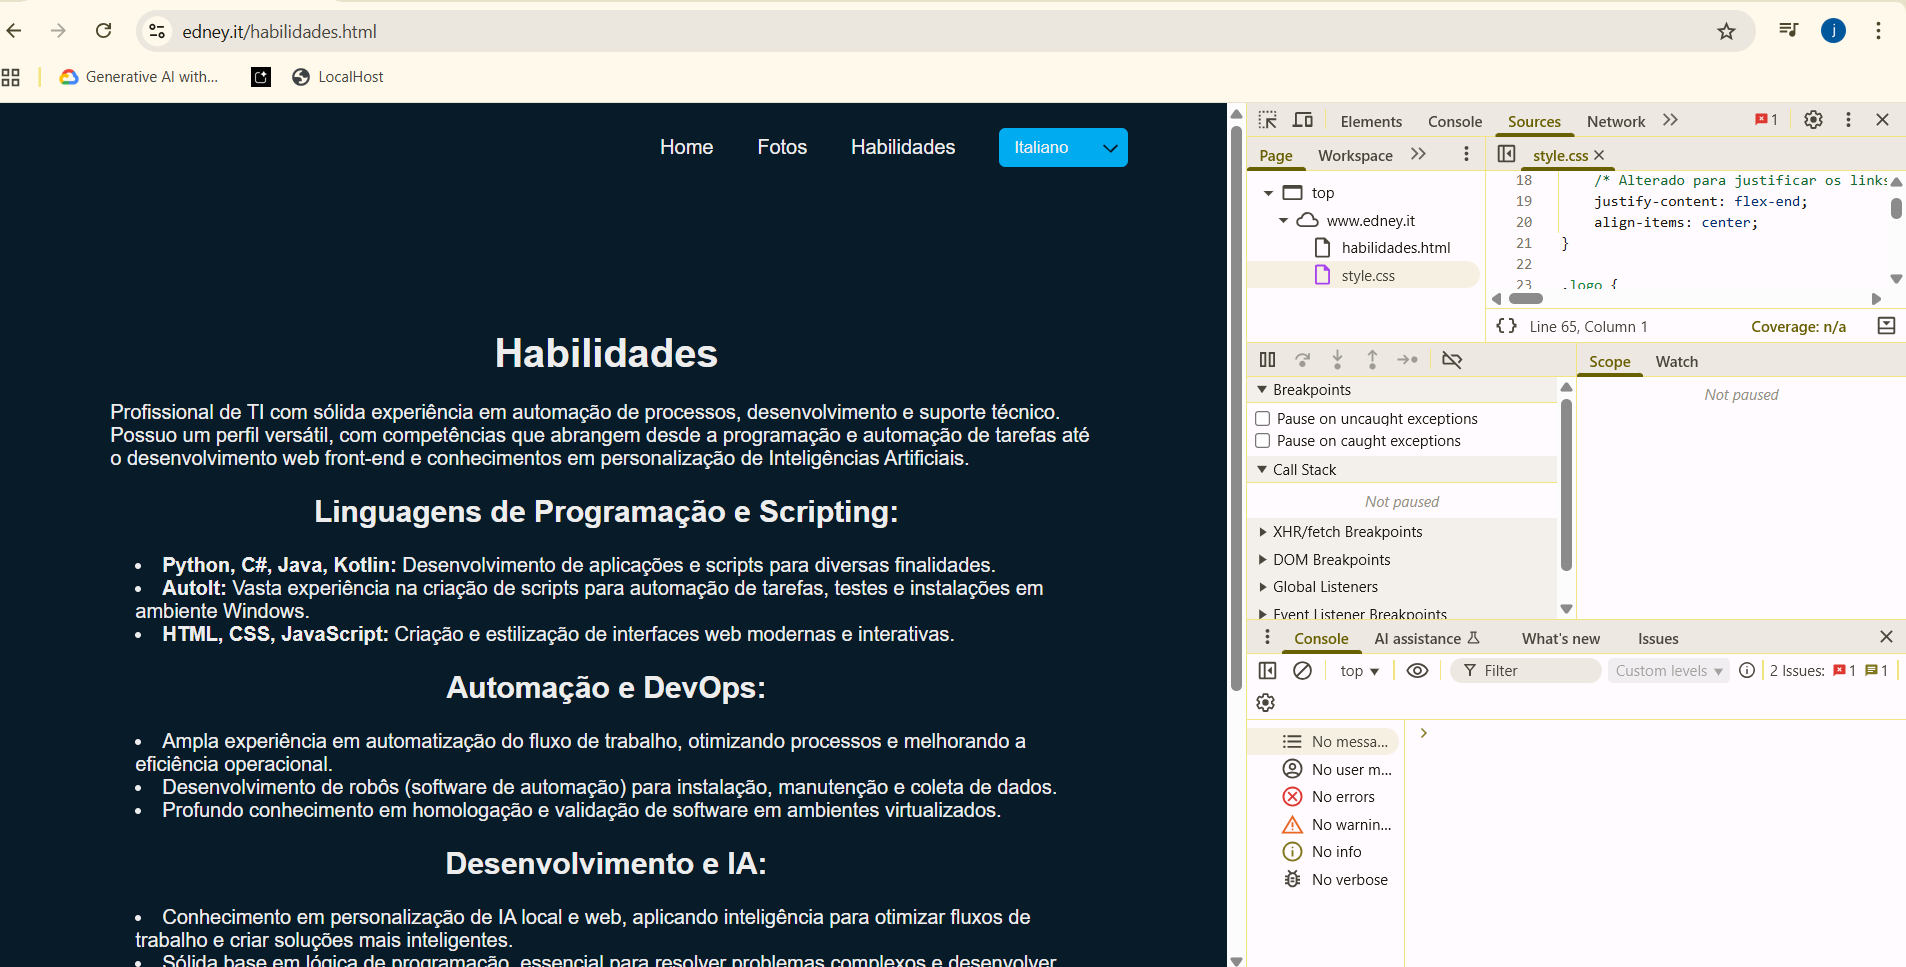
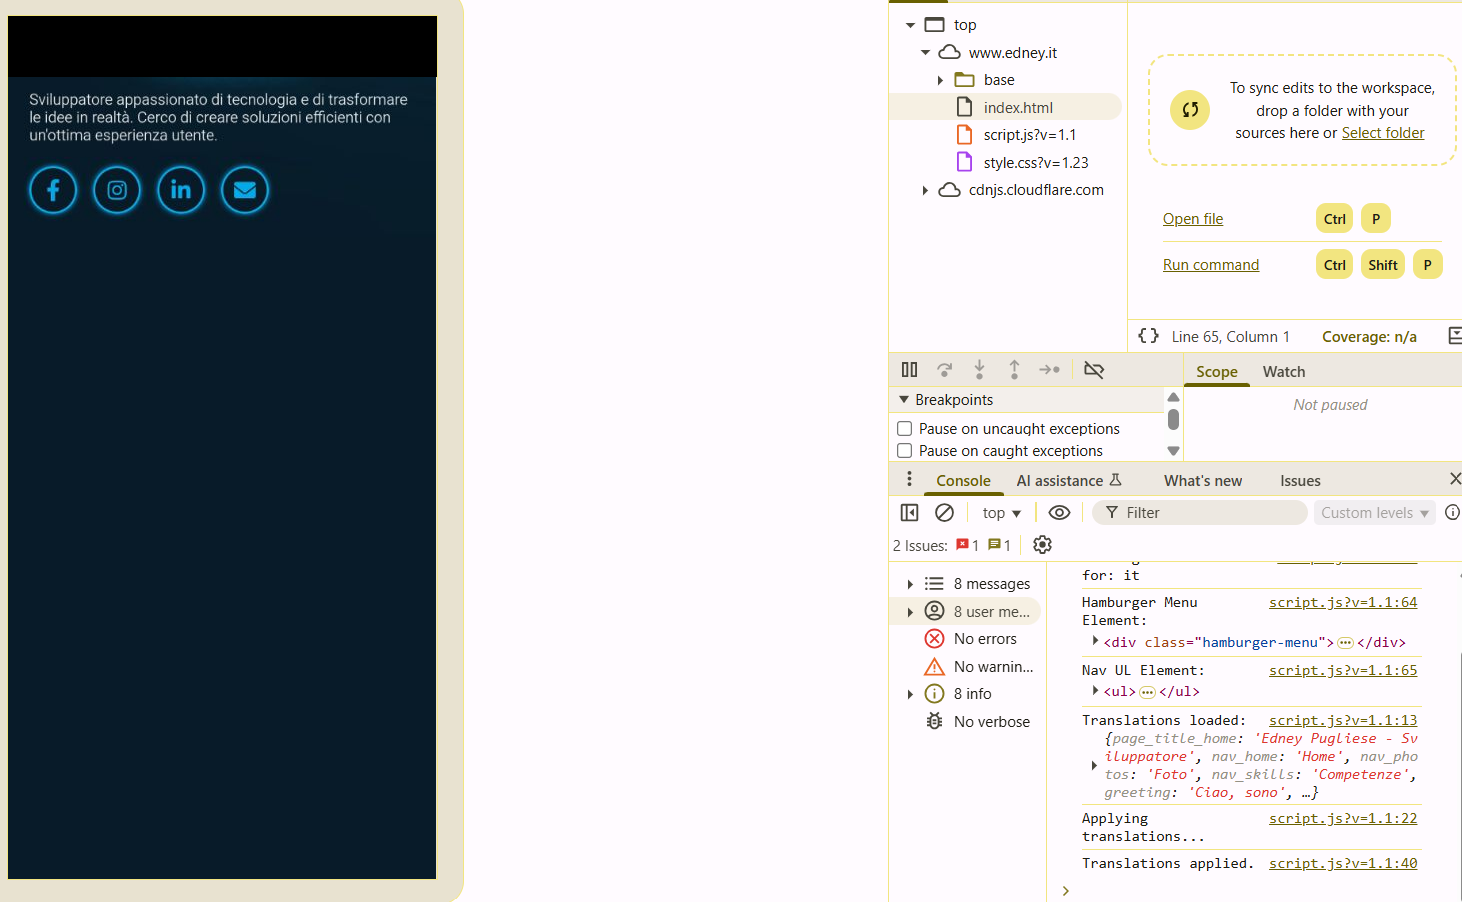
fix: Remove espaço vazio no final da página inicial em dispositivos móveis e atualiza a versão do CSS.

diff --git a/style.css b/style.css
@@ -240,7 +240,7 @@ nav ul li a:hover, nav ul li a.active {
 /* Media Queries for Responsiveness */
 @media (max-width: 768px) {
     body {
-        padding: 0 5%;
+        padding: 0 5% 0;
     }
 
     nav {
@@ -287,10 +287,12 @@ nav ul li a:hover, nav ul li a.active {
         max-width: 100%;
         width: 100%;
         box-sizing: border-box;
+        margin-bottom: 0; /* Remove any bottom margin */
     }
 
     .text-content {
         margin-top: 20px; /* Add some space above text content */
+        margin-bottom: 0; /* Remove any bottom margin */
     }
 
     .text-content h1 {
@@ -359,11 +361,6 @@ nav ul li a:hover, nav ul li a.active {
     align-items: center;
     gap: 10px; /* Espaçamento entre o ícone e o texto */
     text-shadow: 0 0 5px #00abf0, 0 0 10px #00abf0; /* Efeito de brilho ainda mais reduzido */
-}
-
-.skill-category .category-title i {
-    font-size: 30px; /* Tamanho do ícone do título */
-    color: #00abf0;
 }
 
 .skill-category ul {

diff --git a/index.html b/index.html
@@ -4,7 +4,7 @@
     <meta charset="UTF-8">
     <meta name="viewport" content="width=device-width, initial-scale=1.0">
     <title data-i18n="page_title_home">Edney Pugliese - Desenvolvedor</title>
-    <link rel="stylesheet" href="style.css?v=1.23">
+    <link rel="stylesheet" href="style.css?v=1.24">
     <link rel="stylesheet" href="https://cdnjs.cloudflare.com/ajax/libs/font-awesome/6.0.0-beta3/css/all.min.css">
 </head>
 <body>
